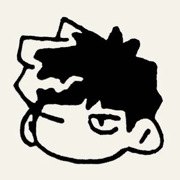
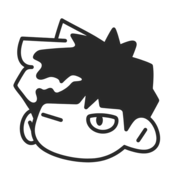
fix : minor assets related tweaks

diff --git a/src/components/layout/navbar.tsx b/src/components/layout/navbar.tsx
@@ -1,18 +1,40 @@
 "use client";
 
+import { useEffect, useState } from "react";
 import Link from "next/link";
 import { usePathname } from "next/navigation";
 import { cn } from "@/lib/utils";
 
 const NAV_LINKS = [
-    { href: "/work", label: "/WORK" },
-    { href: "/blogs", label: "/BLOGS" },
-    { href: "/about", label: "/ABOUT" },
+    { href: "#projects", label: "/WORK" },
+    { href: "#contact", label: "/CONTACT" },
 ] as const;
+
+const SECTION_IDS = NAV_LINKS.map((link) => link.href.slice(1));
 
 export function Navbar() {
     const pathname = usePathname();
     const isHome = pathname === "/";
+    const [activeSection, setActiveSection] = useState<string | null>(null);
+
+    useEffect(() => {
+        const elements = SECTION_IDS.map((id) => document.getElementById(id)).filter(Boolean) as HTMLElement[];
+        if (elements.length === 0) return;
+
+        const observer = new IntersectionObserver(
+            (entries) => {
+                for (const entry of entries) {
+                    if (entry.isIntersecting) {
+                        setActiveSection(entry.target.id);
+                    }
+                }
+            },
+            { rootMargin: "-40% 0px -40% 0px", threshold: 0 },
+        );
+
+        for (const el of elements) observer.observe(el);
+        return () => observer.disconnect();
+    }, []);
 
     return (
         <nav className="sticky top-0 z-50 w-full bg-bg-primary/80 backdrop-blur-lg backdrop-saturate-180">
@@ -26,20 +48,20 @@ export function Navbar() {
 
                 <div className="flex items-center gap-6">
                     {NAV_LINKS.map((link) => {
-                        const isActive = pathname === link.href;
+                        const sectionId = link.href.slice(1);
+                        const isActive = activeSection === sectionId;
 
                         return (
-                            <Link
+                            <a
                                 key={link.href}
                                 href={link.href}
-                                aria-current={isActive ? "page" : undefined}
                                 className={cn(
                                     "font-jetbrains text-[13px] font-normal uppercase leading-none outline-none transition-colors duration-200 focus-visible:text-accent-primary",
                                     isActive ? "text-accent-primary" : "text-text-secondary hover:text-text-primary",
                                 )}
                             >
                                 {link.label}
-                            </Link>
+                            </a>
                         );
                     })}
                 </div>

diff --git a/src/components/sections/hero-manifesto.tsx b/src/components/sections/hero-manifesto.tsx
@@ -7,18 +7,18 @@ const SCRAMBLE_CHARS = "abcdefghijklmnopqrstuvwxyz@#$%&*!?";
 const SLOTS = {
     rotating_1: {
         words: ["edge cases", "weird bugs", "missing docs", "broken APIs", "late-night deploys", "undocumented formats"],
-        interval: 2500,
+        interval: 5000,
         offset: 0,
     },
     rotating_2: {
         words: ["impossible deadlines", "legacy codebases", "real-time sync issues", "shifting requirements", "production fires", "pixel-perfect details"],
-        interval: 3000,
-        offset: 800,
+        interval: 5000,
+        offset: 0,
     },
     rotating_3: {
         words: ["shipping", "debugging", "reverse-engineering", "architecting", "obsessing", "caffeinating"],
-        interval: 3500,
-        offset: 1500,
+        interval: 5000,
+        offset: 0,
     },
 } as const;
 
@@ -45,13 +45,13 @@ function useScrambleSlot(words: readonly string[], interval: number, offset: num
                     .join(""),
             );
 
-            iteration += 0.5;
+            iteration += 0.4;
 
             if (iteration > target.length) {
                 if (scrambleRef.current) clearInterval(scrambleRef.current);
                 setDisplay(target);
             }
-        }, 25);
+        }, 35);
     }, []);
 
     useEffect(() => {

diff --git a/src/app/layout.tsx b/src/app/layout.tsx
@@ -23,13 +23,13 @@ export const metadata: Metadata = {
         siteName: SITE.domain,
         locale: SITE.locale,
         type: "website",
-        images: [{ url: "/og-image.png", width: 1200, height: 630, alt: `${SITE.name} - Full Stack Developer` }],
+        images: [{ url: "/og-twitter.png", width: 1200, height: 630, alt: `${SITE.name} - Software Developer` }],
     },
     twitter: {
         card: "summary_large_image",
         title: SITE.title,
         description: SITE.descriptionShort,
-        images: ["/og-image.png"],
+        images: ["/og-twitter.png"],
     },
     robots: { index: true, follow: true },
     alternates: { canonical: SITE.url },

diff --git a/src/components/sections/hero-intro.tsx b/src/components/sections/hero-intro.tsx
@@ -7,7 +7,7 @@ export function HeroIntro() {
         <div className="flex flex-col items-center gap-6 min-[560px]:flex-row min-[560px]:gap-6">
             {/* Avatar — interactive dithered particle canvas */}
             <div className="aspect-square w-full shrink-0 min-[560px]:h-[300px] min-[560px]:w-[300px]">
-                <DitherImage src="/avatars/avatar.jpeg" className="block h-full w-full" />
+                <DitherImage src="/avatar-big.png" className="block h-full w-full" />
             </div>
 
             {/* Text + CTA */}

diff --git a/src/components/sections/projects.tsx b/src/components/sections/projects.tsx
@@ -125,7 +125,7 @@ function ProjectCard({ project, index }: { project: Project; index: number }) {
 
 export function Projects() {
     return (
-        <section className="mt-24" aria-label="Projects">
+        <section id="projects" className="mt-24 scroll-mt-16" aria-label="Projects">
             <motion.h2
                 className="font-micro text-[40px] leading-none text-text-primary"
                 initial={{ opacity: 0, y: 20 }}

diff --git a/src/components/sections/connections.tsx b/src/components/sections/connections.tsx
@@ -236,7 +236,7 @@ function MobileConnections() {
 
 export function Connections() {
     return (
-        <section className="mt-16 min-[480px]:mt-24" aria-label="Get in touch">
+        <section id="contact" className="mt-16 scroll-mt-16 min-[480px]:mt-24" aria-label="Get in touch">
             <motion.h2
                 className="font-micro text-[40px] leading-none text-text-primary"
                 initial={{ opacity: 0, y: 20 }}

diff --git a/src/app/globals.css b/src/app/globals.css
@@ -6,6 +6,10 @@
    DESIGN SYSTEM TOKENS — harsh.ing
    ============================================ */
 
+html {
+    scroll-behavior: smooth;
+}
+
 :root {
     /* FONTS — values set by next/font classes on <html>, fallbacks only */
     /* SPACING (4px grid) */

diff --git a/src/components/layout/theme-provider.tsx b/src/components/layout/theme-provider.tsx
@@ -10,7 +10,7 @@ export function ThemeProvider({ children }: ThemeProviderProps) {
   return (
     <NextThemesProvider
       attribute="class"
-      defaultTheme="dark"
+      defaultTheme="light"
       disableTransitionOnChange
     >
       {children}
